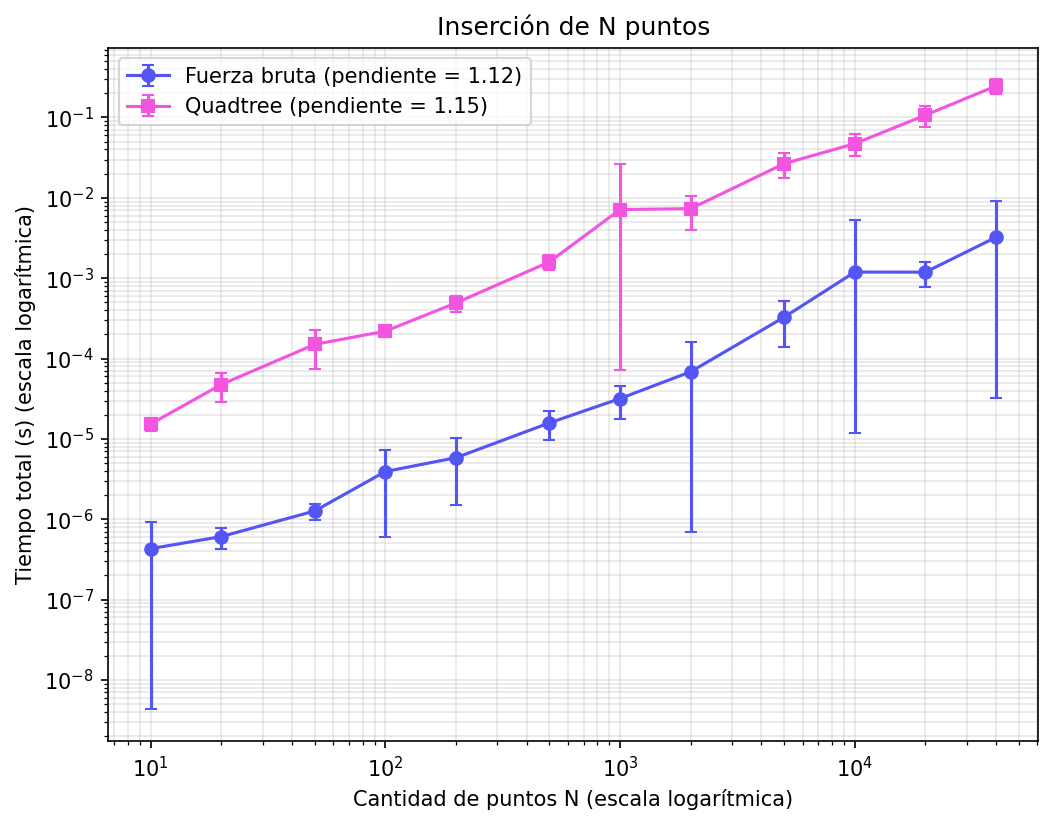
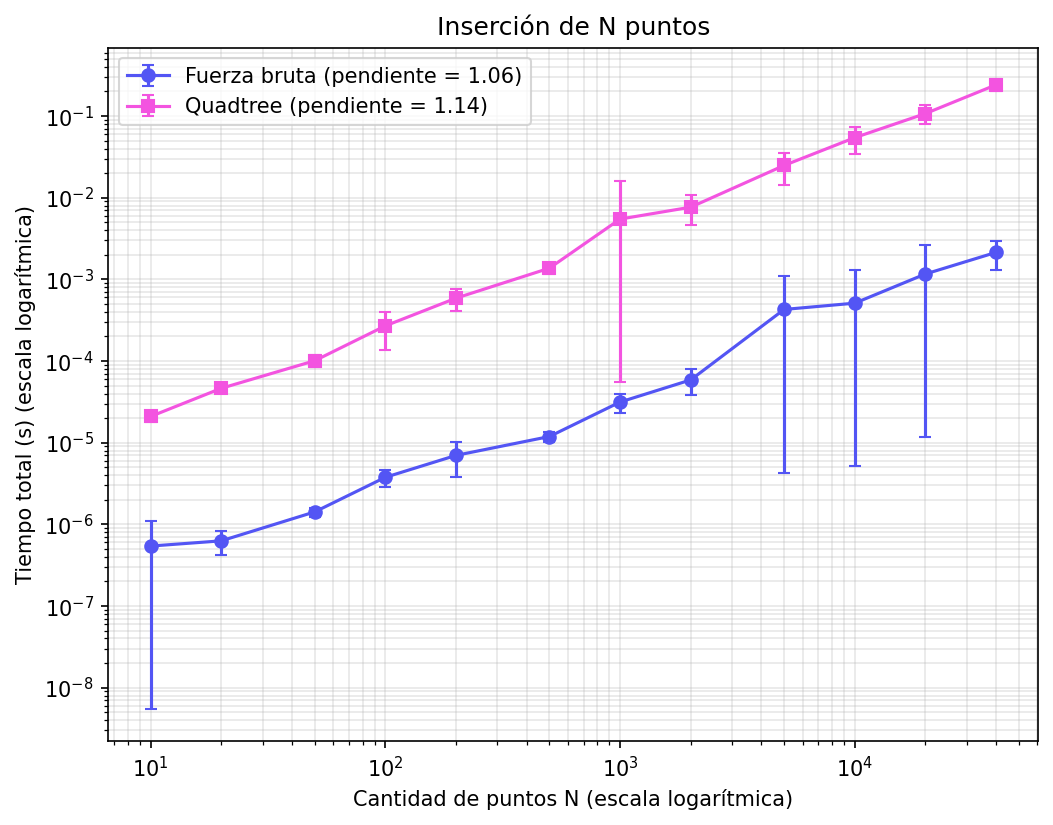
grafica

diff --git a/Laboratorio 4/analisis.py b/Laboratorio 4/analisis.py
@@ -1,3 +1,4 @@
+import gc
 import os
 import time
 import random
@@ -42,11 +43,14 @@ def construir_arbol(puntos):        # Toma el tiempo de construcción del árbol
     return raiz, time.perf_counter() - inicio     # Retorna el árbol y el tiempo
 
 def construir_lista(puntos):    # Fuerza bruta: "insertar" es agregar a una lista
-    inicio = time.perf_counter()   # Se inicia el contador de tiempo
-    lista = []                     # Se inicializa la estructura 
-    for x, y in puntos:            # Se inserta cada punto
-        lista.append((x, y))       
-    return lista, time.perf_counter() - inicio   # Retorna la lista y el tiempo
+    gc.disable()                        # sin recolector durante la medición
+    inicio = time.perf_counter()
+    lista = []
+    for x, y in puntos:
+        lista.append((x, y))
+    tiempo = time.perf_counter() - inicio
+    gc.enable()
+    return lista, tiempo
 
 
 # FUNCIONES PARA MEDIR LOS TIEMPOS
